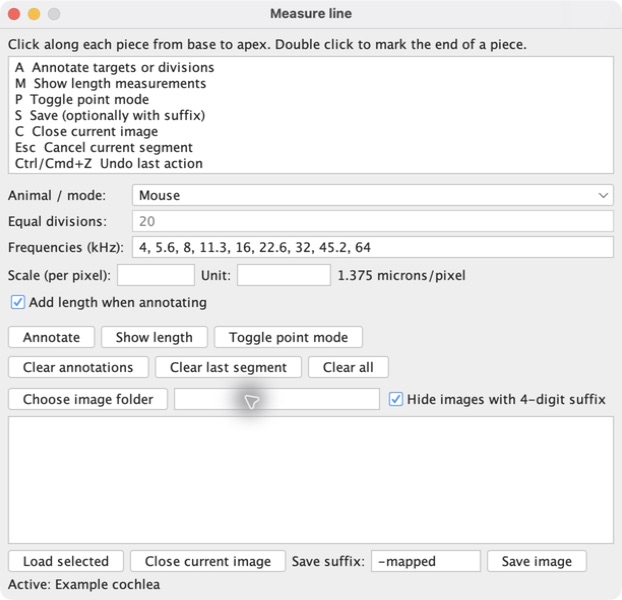
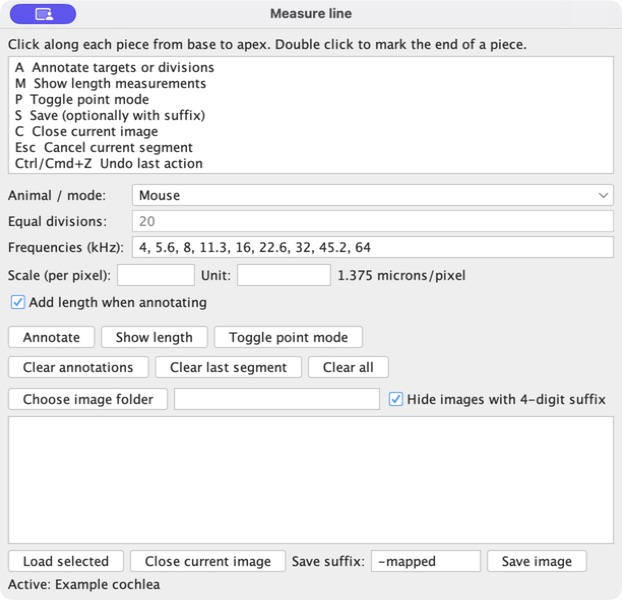
Update README.md

Changed region(s): [[0.0, 0.0, 0.1222, 0.06], [0.3666, 0.63, 0.4277, 0.69]]

diff --git a/README.md b/README.md
@@ -1,10 +1,17 @@
 # Cochlear Length FIJI Plugin
 
-Version 2.0.0
-
-This is the Eaton-Peabody Laboratories (EPL) `Measure_line.class` repackaged as a Fiji plugin with a bug fixed and some additional features. The original plugin, equations, and workflow are EPL's work and were shared by the [EPL Histology Core](https://masseyeandear.org/research/otolaryngology/eaton-peabody-laboratories/histology-core).
+This is the Eaton-Peabody Laboratories (EPL) `Measure_line.class` repackaged as a Fiji plugin with a bug fixed and some additional features. The original plugin, equations, and workflow are EPL's work and are available on the website of the [EPL Histology Core](https://masseyeandear.org/research/otolaryngology/eaton-peabody-laboratories/histology-core).
 
 ![Measure line plugin GUI](images/measure-line-gui.png)
+
+Compared to the original `Measure_line.class`, this plugin:
+
+- Fixes the broken macOS plugin path.
+- Adds a GUI that persistently stores the annotation mode (mouse, human, equal division, etc.).
+- Adds an option to put the total cochlea length on the image.
+- Adds options to clear annotations or selections.
+- Remains active while opening and closing multiple images.
+- Adds useful controls for higher-throughput mapping, including opening, closing, and saving images from the GUI with an optional suffix.
 
 ## Install
 
@@ -24,15 +31,6 @@ This is the Eaton-Peabody Laboratories (EPL) `Measure_line.class` repackaged as 
 8. Press **Save image** or **S**.
 
 **Show length** or **M** reports the length of each piece and the total length. **Toggle point mode** or **P** shows the frequency at a specific point; left-click to add a frequency label. Press **Esc** to cancel an unfinished piece, or **Ctrl/Cmd+Z** to undo the latest label, annotation, or stored piece.
-
-## Differences with original Measure_line.class
-
-- Fixed broken macOS plugin path.
-- Added plugin GUI to set annotation mode (mouse, human, equal division, etc.) persistently.
-- Added option to add total cochlea length to the image.
-- Added option to clear annotations or selections.
-- Plugin stays active when opening/closing multiple images.
-- Added various useful controls for higher throughput mapping, such as opening, closing, and saving from the GUI (with an optional suffix).
 
 ## (Optional) batch stitching
 